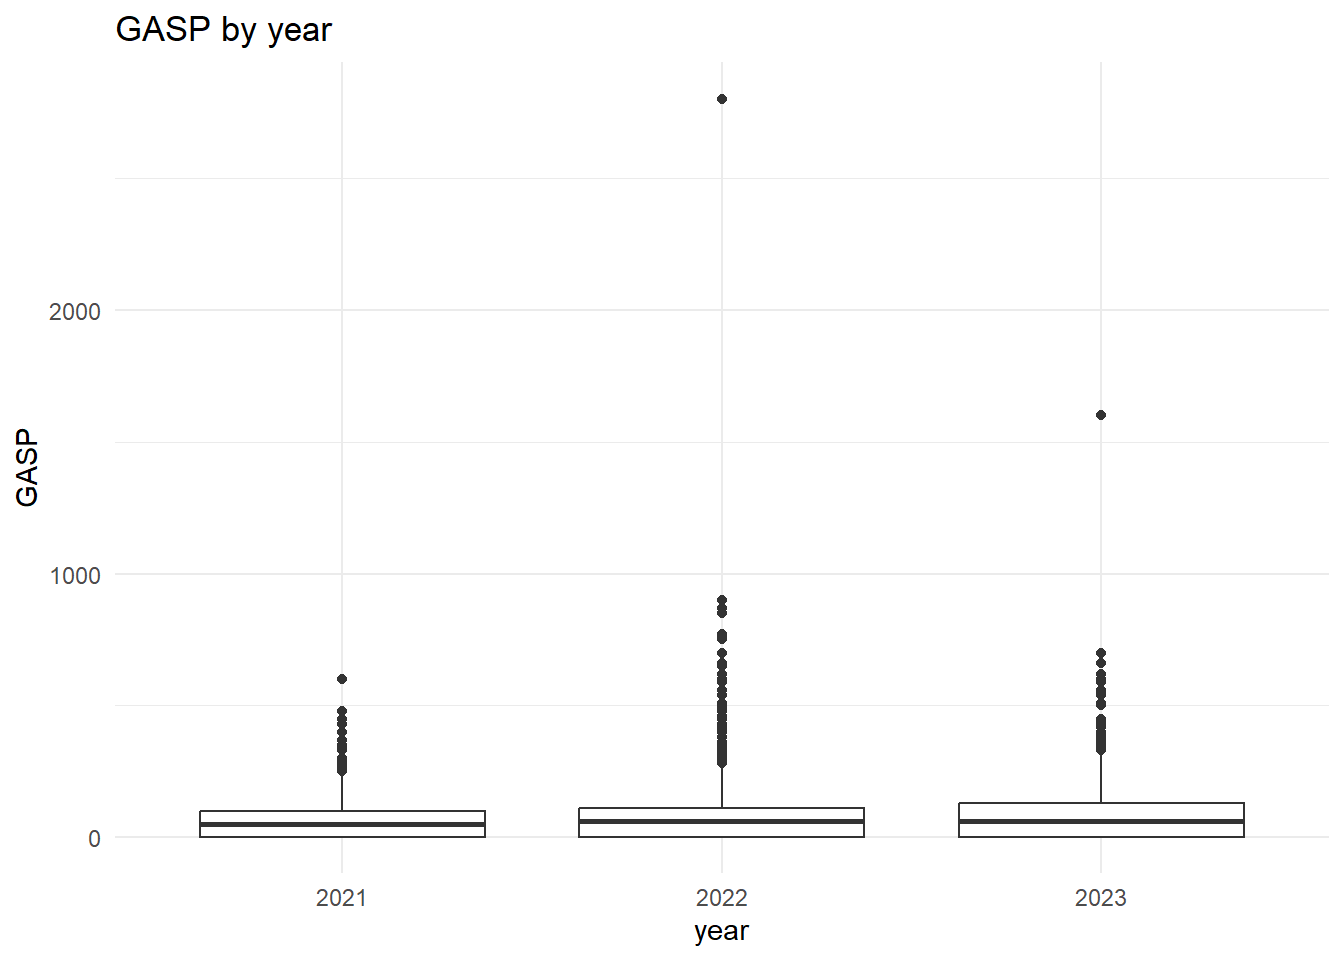
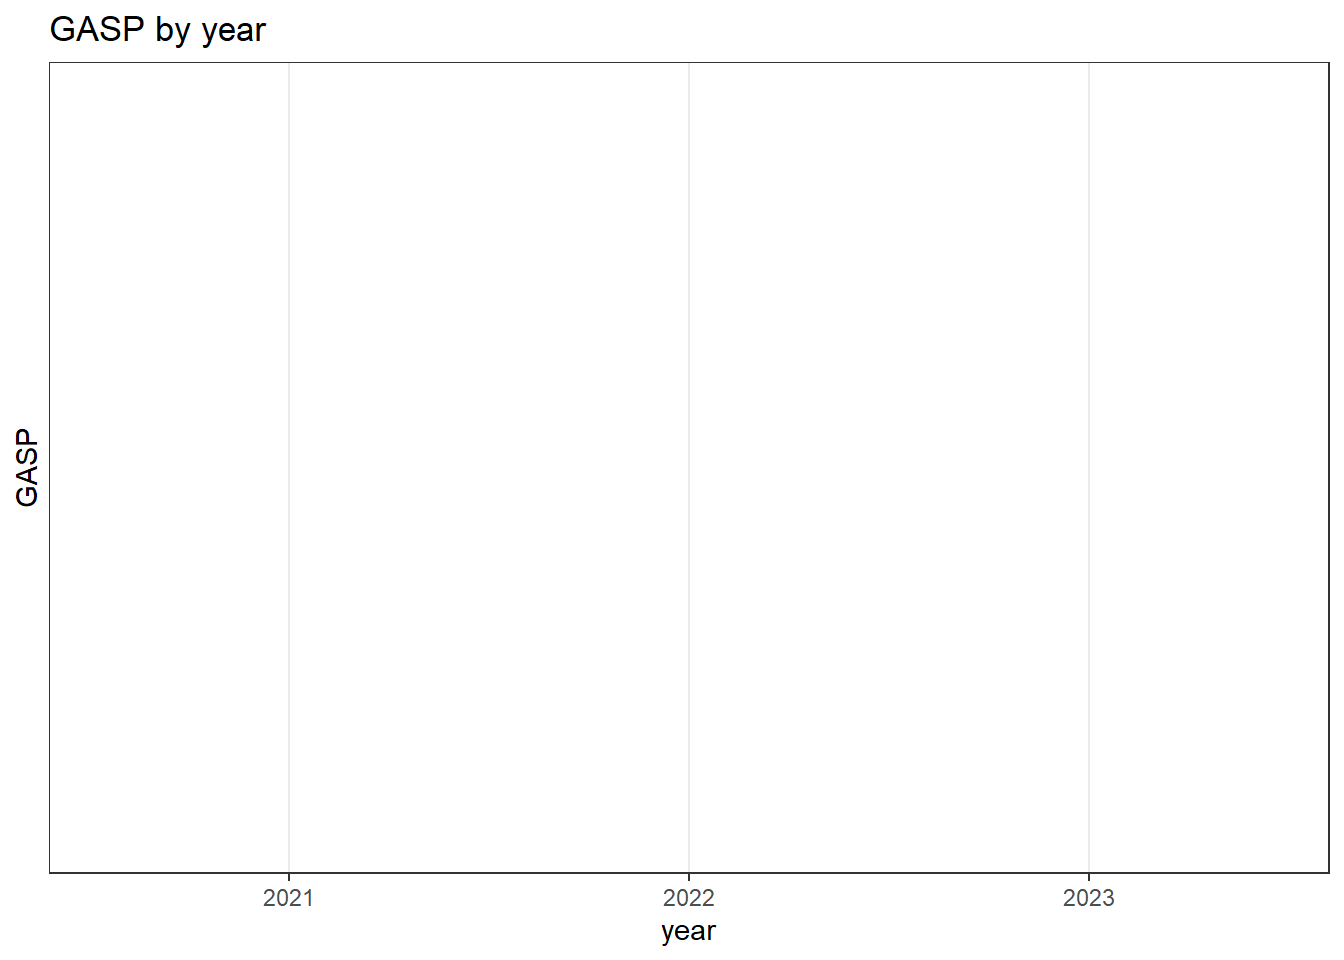
intro?

diff --git a/docs/ST558_Project_1.html b/docs/ST558_Project_1.html
@@ -770,7 +770,7 @@ We get the variables that we need (Shown below in the function definition), appl
 <span id="cb21-59"><a href="#cb21-59" aria-hidden="true" tabindex="-1"></a>  <span class="cf">if</span> (<span class="sc">!</span><span class="fu">is.factor</span>(census_tibble[[cat_var]])) {</span>
 <span id="cb21-60"><a href="#cb21-60" aria-hidden="true" tabindex="-1"></a>    census_tibble[[cat_var]] <span class="ot">&lt;-</span> <span class="fu">factor</span>(census_tibble[[cat_var]])</span>
 <span id="cb21-61"><a href="#cb21-61" aria-hidden="true" tabindex="-1"></a>  }</span>
-<span id="cb21-62"><a href="#cb21-62" aria-hidden="true" tabindex="-1"></a><span class="fu">print</span>(<span class="fu">paste</span>(cat_var, num_var, <span class="at">sep =</span> <span class="st">", "</span>))</span>
+<span id="cb21-62"><a href="#cb21-62" aria-hidden="true" tabindex="-1"></a><span class="co">#print(paste(cat_var, num_var, sep = ", "))</span></span>
 <span id="cb21-63"><a href="#cb21-63" aria-hidden="true" tabindex="-1"></a>  <span class="co"># Creating the weighted boxplot using ggplot</span></span>
 <span id="cb21-64"><a href="#cb21-64" aria-hidden="true" tabindex="-1"></a>  census_plot <span class="ot">&lt;-</span> <span class="fu">ggplot</span>(<span class="at">data =</span> census_tibble,</span>
 <span id="cb21-65"><a href="#cb21-65" aria-hidden="true" tabindex="-1"></a>                        <span class="fu">aes</span>(<span class="at">x =</span> .data[[cat_var]],</span>
@@ -785,7 +785,7 @@ We get the variables that we need (Shown below in the function definition), appl
 <span id="cb21-74"><a href="#cb21-74" aria-hidden="true" tabindex="-1"></a>      <span class="at">x =</span> cat_var,</span>
 <span id="cb21-75"><a href="#cb21-75" aria-hidden="true" tabindex="-1"></a>      <span class="at">y =</span> num_var</span>
 <span id="cb21-76"><a href="#cb21-76" aria-hidden="true" tabindex="-1"></a>    ) <span class="sc">+</span></span>
-<span id="cb21-77"><a href="#cb21-77" aria-hidden="true" tabindex="-1"></a>    <span class="fu">theme_minimal</span>()</span>
+<span id="cb21-77"><a href="#cb21-77" aria-hidden="true" tabindex="-1"></a>    <span class="fu">theme_bw</span>()</span>
 <span id="cb21-78"><a href="#cb21-78" aria-hidden="true" tabindex="-1"></a>  </span>
 <span id="cb21-79"><a href="#cb21-79" aria-hidden="true" tabindex="-1"></a>  <span class="fu">return</span>(census_plot)</span>
 <span id="cb21-80"><a href="#cb21-80" aria-hidden="true" tabindex="-1"></a>}</span></code></pre></div><button title="Copy to Clipboard" class="code-copy-button"><i class="bi"></i></button></div>
@@ -836,8 +836,10 @@ categorical_vector
 <p>And then test Graphical summaries</p>
 <div class="cell">
 <div class="code-copy-outer-scaffold"><div class="sourceCode cell-code" id="cb24"><pre class="sourceCode r code-with-copy"><code class="sourceCode r"><span id="cb24-1"><a href="#cb24-1" aria-hidden="true" tabindex="-1"></a><span class="fu">plot.census</span>(WY_data, <span class="at">num_var =</span> <span class="st">"GASP"</span>, <span class="at">cat_var =</span> <span class="st">"year"</span>)</span></code></pre></div><button title="Copy to Clipboard" class="code-copy-button"><i class="bi"></i></button></div>
-<div class="cell-output cell-output-stdout">
-<pre><code>[1] "year, GASP"</code></pre>
+<div class="cell-output cell-output-stderr">
+<pre><code>Warning: Computation failed in `stat_boxplot()`.
+Caused by error in `loadNamespace()`:
+! there is no package called 'quantreg'</code></pre>
 </div>
 <div class="cell-output-display">
 <div>
@@ -851,6 +853,65 @@ categorical_vector
 </section>
 <section id="investigation" class="level2">
 <h2 class="anchored" data-anchor-id="investigation">Investigation</h2>
+<p>We want investigate the gross rent as a percent of the household income in from 2021 to 2024, in the south east region of the United State, focusing on the states of North Carolina, Tennessee, and South Carolina.</p>
+<p>And relate that with the school enrollment.</p>
+<p>First we are going to get the tibble with the data for those states and the variables required.</p>
+<div class="cell">
+<div class="code-copy-outer-scaffold"><div class="sourceCode cell-code" id="cb26"><pre class="sourceCode r code-with-copy"><code class="sourceCode r"><span id="cb26-1"><a href="#cb26-1" aria-hidden="true" tabindex="-1"></a>SE_data <span class="ot">&lt;-</span> <span class="fu">parse_census_years</span>(<span class="dv">2021</span><span class="sc">:</span><span class="dv">2024</span>, <span class="at">num_var =</span> <span class="fu">c</span>(<span class="st">"AGEP"</span>, <span class="st">"GRPIP"</span>), </span>
+<span id="cb26-2"><a href="#cb26-2" aria-hidden="true" tabindex="-1"></a>                   <span class="at">cat_var =</span> <span class="fu">c</span>(<span class="st">"SEX"</span>, <span class="st">"SCH"</span>), <span class="at">geo =</span> <span class="st">"STATE"</span>,</span>
+<span id="cb26-3"><a href="#cb26-3" aria-hidden="true" tabindex="-1"></a>                   <span class="at">sub_geo =</span> <span class="fu">c</span>(<span class="st">"North Carolina/NC"</span>, <span class="st">"Tennessee/TN"</span>,</span>
+<span id="cb26-4"><a href="#cb26-4" aria-hidden="true" tabindex="-1"></a>                               <span class="st">"South Carolina/SC"</span>))</span></code></pre></div><button title="Copy to Clipboard" class="code-copy-button"><i class="bi"></i></button></div>
+</div>
+<p>We are going to do numerical summaries for all the variables</p>
+<div class="cell">
+<div class="code-copy-outer-scaffold"><div class="sourceCode cell-code" id="cb27"><pre class="sourceCode r code-with-copy"><code class="sourceCode r"><span id="cb27-1"><a href="#cb27-1" aria-hidden="true" tabindex="-1"></a><span class="fu">summary.census</span>(SE_data, <span class="at">num_var =</span> <span class="fu">c</span>(<span class="st">"GRPIP"</span>, <span class="st">"AGEP"</span>), <span class="at">cat_var =</span> <span class="fu">c</span>(<span class="st">"SCH"</span>, <span class="st">"SEX"</span>))</span></code></pre></div><button title="Copy to Clipboard" class="code-copy-button"><i class="bi"></i></button></div>
+<div class="cell-output cell-output-stdout">
+<pre><code>$numeric_summaries
+$numeric_summaries$GRPIP
+              mean standard_deviation 
+          9.584105          21.090354 
+
+$numeric_summaries$AGEP
+              mean standard_deviation 
+          39.81854           23.29106 
+
+
+$categorical_counts
+$categorical_counts$SCH
+categorical_vector
+                  N/A (less than 3 years old) 
+                                        25355 
+    No, has not attended in the last 3 months 
+                                       724315 
+Yes, private school or college or home school 
+                                        42886 
+         Yes, public school or public college 
+                                       156874 
+
+$categorical_counts$SEX
+categorical_vector
+Female   Male 
+489211 460219 </code></pre>
+</div>
+</div>
+<p>Based on these summaries, the average percentage of income that is used for rent across these states is about 9.6%, however the standard deviation is high compared to the mean value, in order to get more insight we are going to graph the values for the box plots per state and investigate the distributions.</p>
+<p>Also when observing the count for the school enrollment, we can see that most of the concentration is in the factor when the person has not attended in the last 3 months, which match with the average age of the people, which one explanation could be that most of the people already graduated from college or from school.</p>
+<p>We are going to generate boxplots for the average percentage of income used in rent vs the state.</p>
+<div class="cell">
+<div class="code-copy-outer-scaffold"><div class="sourceCode cell-code" id="cb29"><pre class="sourceCode r code-with-copy"><code class="sourceCode r"><span id="cb29-1"><a href="#cb29-1" aria-hidden="true" tabindex="-1"></a><span class="fu">plot.census</span>(SE_data, <span class="at">num_var =</span> <span class="st">"GRPIP"</span>, <span class="at">cat_var =</span> <span class="st">"state"</span>)</span></code></pre></div><button title="Copy to Clipboard" class="code-copy-button"><i class="bi"></i></button></div>
+<div class="cell-output cell-output-stderr">
+<pre><code>Warning: Computation failed in `stat_boxplot()`.
+Caused by error in `loadNamespace()`:
+! there is no package called 'quantreg'</code></pre>
+</div>
+<div class="cell-output-display">
+<div>
+<figure class="figure">
+<p><img src="ST558_Project_1_files/figure-html/unnamed-chunk-16-1.png" class="img-fluid figure-img" width="672"></p>
+</figure>
+</div>
+</div>
+</div>
 
 
 </section>
